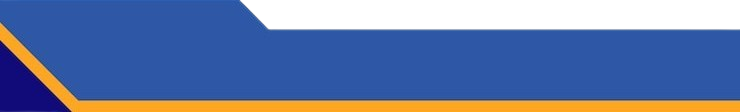
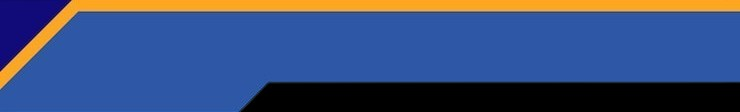
Add files via upload

diff --git a/index.html b/index.html
@@ -48,7 +48,7 @@
             top: 0;
             z-index: 1000;
             /* Overlay removed for full clarity */
-            background: url('footer.jpg');
+            background: url('navbar.jpg');
             background-size: cover;
             background-position: center;
         }
